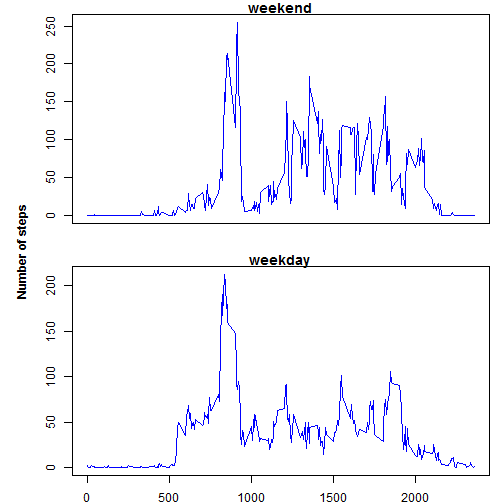
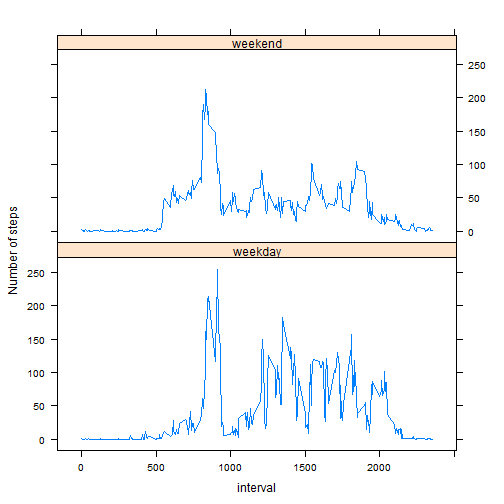
last histogram replaced with latice

diff --git a/PA1_template.html b/PA1_template.html
@@ -256,24 +256,16 @@ mean(aggregate(data3$steps, by = list(data3$date), FUN = sum)$x)
 
 <h2>Are there differences in activity patterns between weekdays and weekends?</h2>
 
-<pre><code class="r">data3$weekday &lt;- as.POSIXlt(data3[, 2])$wday &lt; 6
-
-weekdaily &lt;- data3[data3$weekday, ]
-weekdaily &lt;- aggregate(weekdaily$steps, by = list(weekdaily$interval), FUN = mean)
-
-weekendly &lt;- data3[!data3$weekday, ]
-weekendly &lt;- aggregate(weekendly$steps, by = list(weekendly$interval), FUN = mean)
-
-
-par(mfrow = c(2, 1), mar = c(2, 3, 1, 1), oma = c(0, 2, 0, 0))
-plot(weekendly$Group.1, weekendly$x, type = &quot;l&quot;, ylab = &quot;&quot;, main = &quot;weekend&quot;, 
-    col = &quot;blue&quot;, xlab = &quot;&quot;, xaxt = &quot;n&quot;)
-plot(weekdaily$Group.1, weekdaily$x, type = &quot;l&quot;, ylab = &quot;&quot;, main = &quot;weekday&quot;, 
-    col = &quot;blue&quot;, xlab = &quot;&quot;)
-mtext(&quot;Number of steps&quot;, side = 2, outer = TRUE, font = 2)
+<pre><code class="r">library(lattice)
+data3$weekday &lt;- as.POSIXlt(data3[, 2])$wday &lt; 6
+data4 &lt;- aggregate(steps ~ interval + weekday, data = data3, FUN = mean)
+data4$weekday &lt;- as.factor(data4$weekday)
+levels(data4$weekday) &lt;- c(&quot;weekday&quot;, &quot;weekend&quot;)
+xyplot(steps ~ interval | weekday, layout = c(1, 2), data = data4, type = &quot;l&quot;, 
+    ylab = &quot;Number of steps&quot;)
 </code></pre>
 
[2 lines of base64/hex data omitted]
 
 </body>
 

diff --git a/PA1_template.md b/PA1_template.md
@@ -105,21 +105,13 @@ median(aggregate(data3$steps, by = list(data3$date), FUN = sum)$x)
 ## Are there differences in activity patterns between weekdays and weekends?
 
 ```r
+library(lattice)
 data3$weekday <- as.POSIXlt(data3[, 2])$wday < 6
-
-weekdaily <- data3[data3$weekday, ]
-weekdaily <- aggregate(weekdaily$steps, by = list(weekdaily$interval), FUN = mean)
-
-weekendly <- data3[!data3$weekday, ]
-weekendly <- aggregate(weekendly$steps, by = list(weekendly$interval), FUN = mean)
-
-
-par(mfrow = c(2, 1), mar = c(2, 3, 1, 1), oma = c(0, 2, 0, 0))
-plot(weekendly$Group.1, weekendly$x, type = "l", ylab = "", main = "weekend", 
-    col = "blue", xlab = "", xaxt = "n")
-plot(weekdaily$Group.1, weekdaily$x, type = "l", ylab = "", main = "weekday", 
-    col = "blue", xlab = "")
-mtext("Number of steps", side = 2, outer = TRUE, font = 2)
+data4 <- aggregate(steps ~ interval + weekday, data = data3, FUN = mean)
+data4$weekday <- as.factor(data4$weekday)
+levels(data4$weekday) <- c("weekday", "weekend")
+xyplot(steps ~ interval | weekday, layout = c(1, 2), data = data4, type = "l", 
+    ylab = "Number of steps")
 ```
 
 ![plot of chunk unnamed-chunk-5](figure/unnamed-chunk-5.png) 
